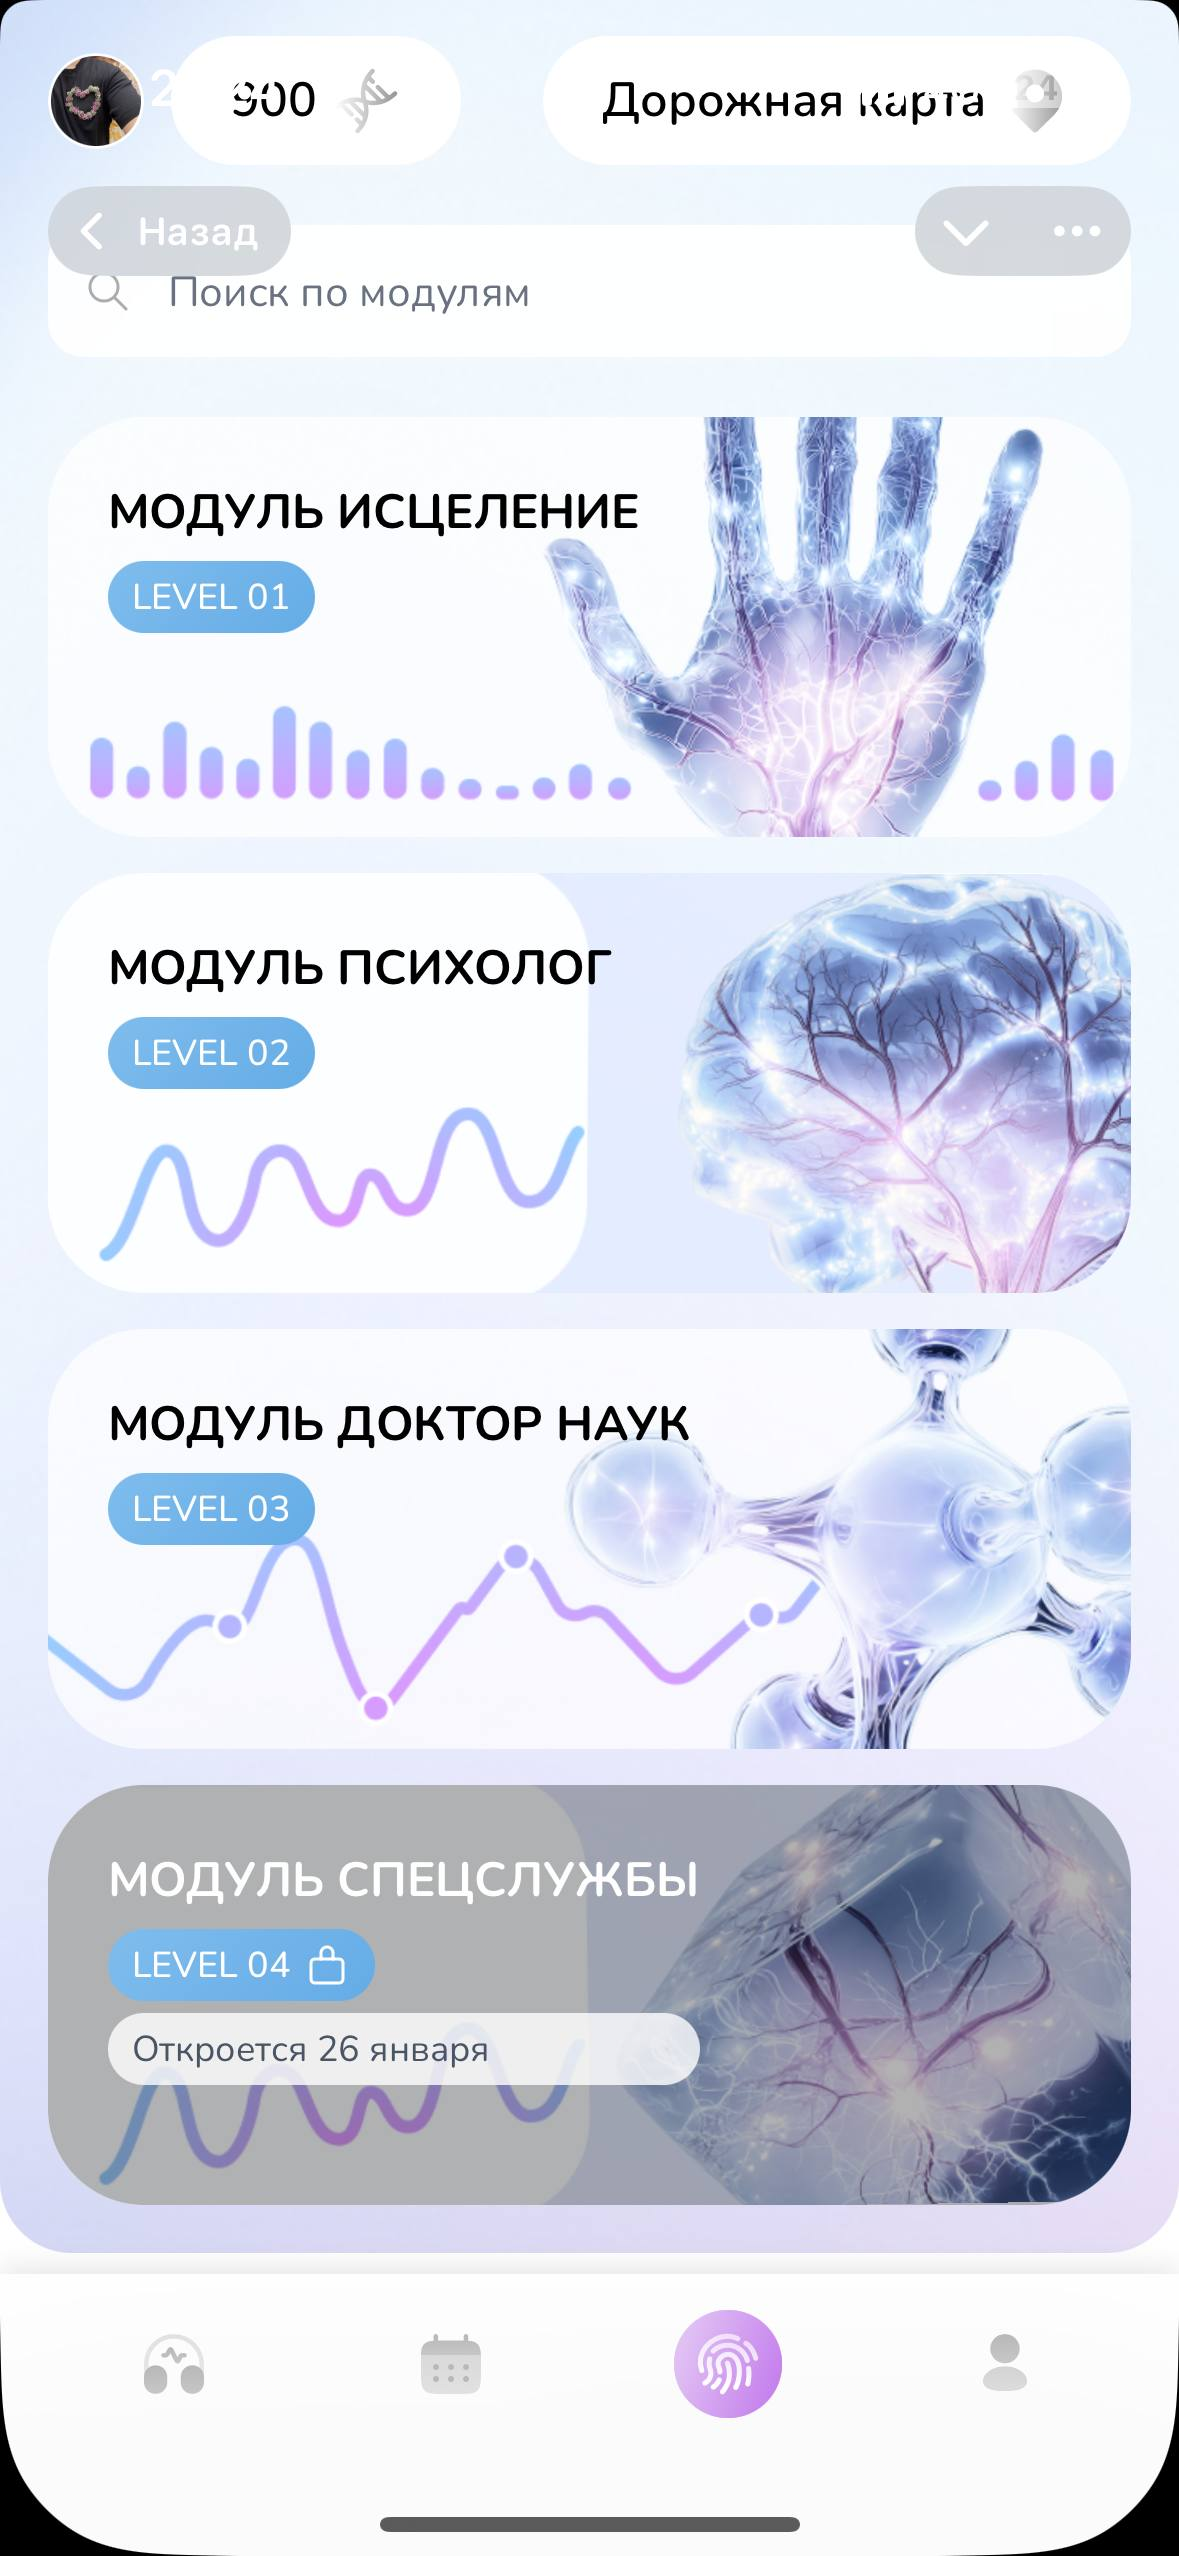
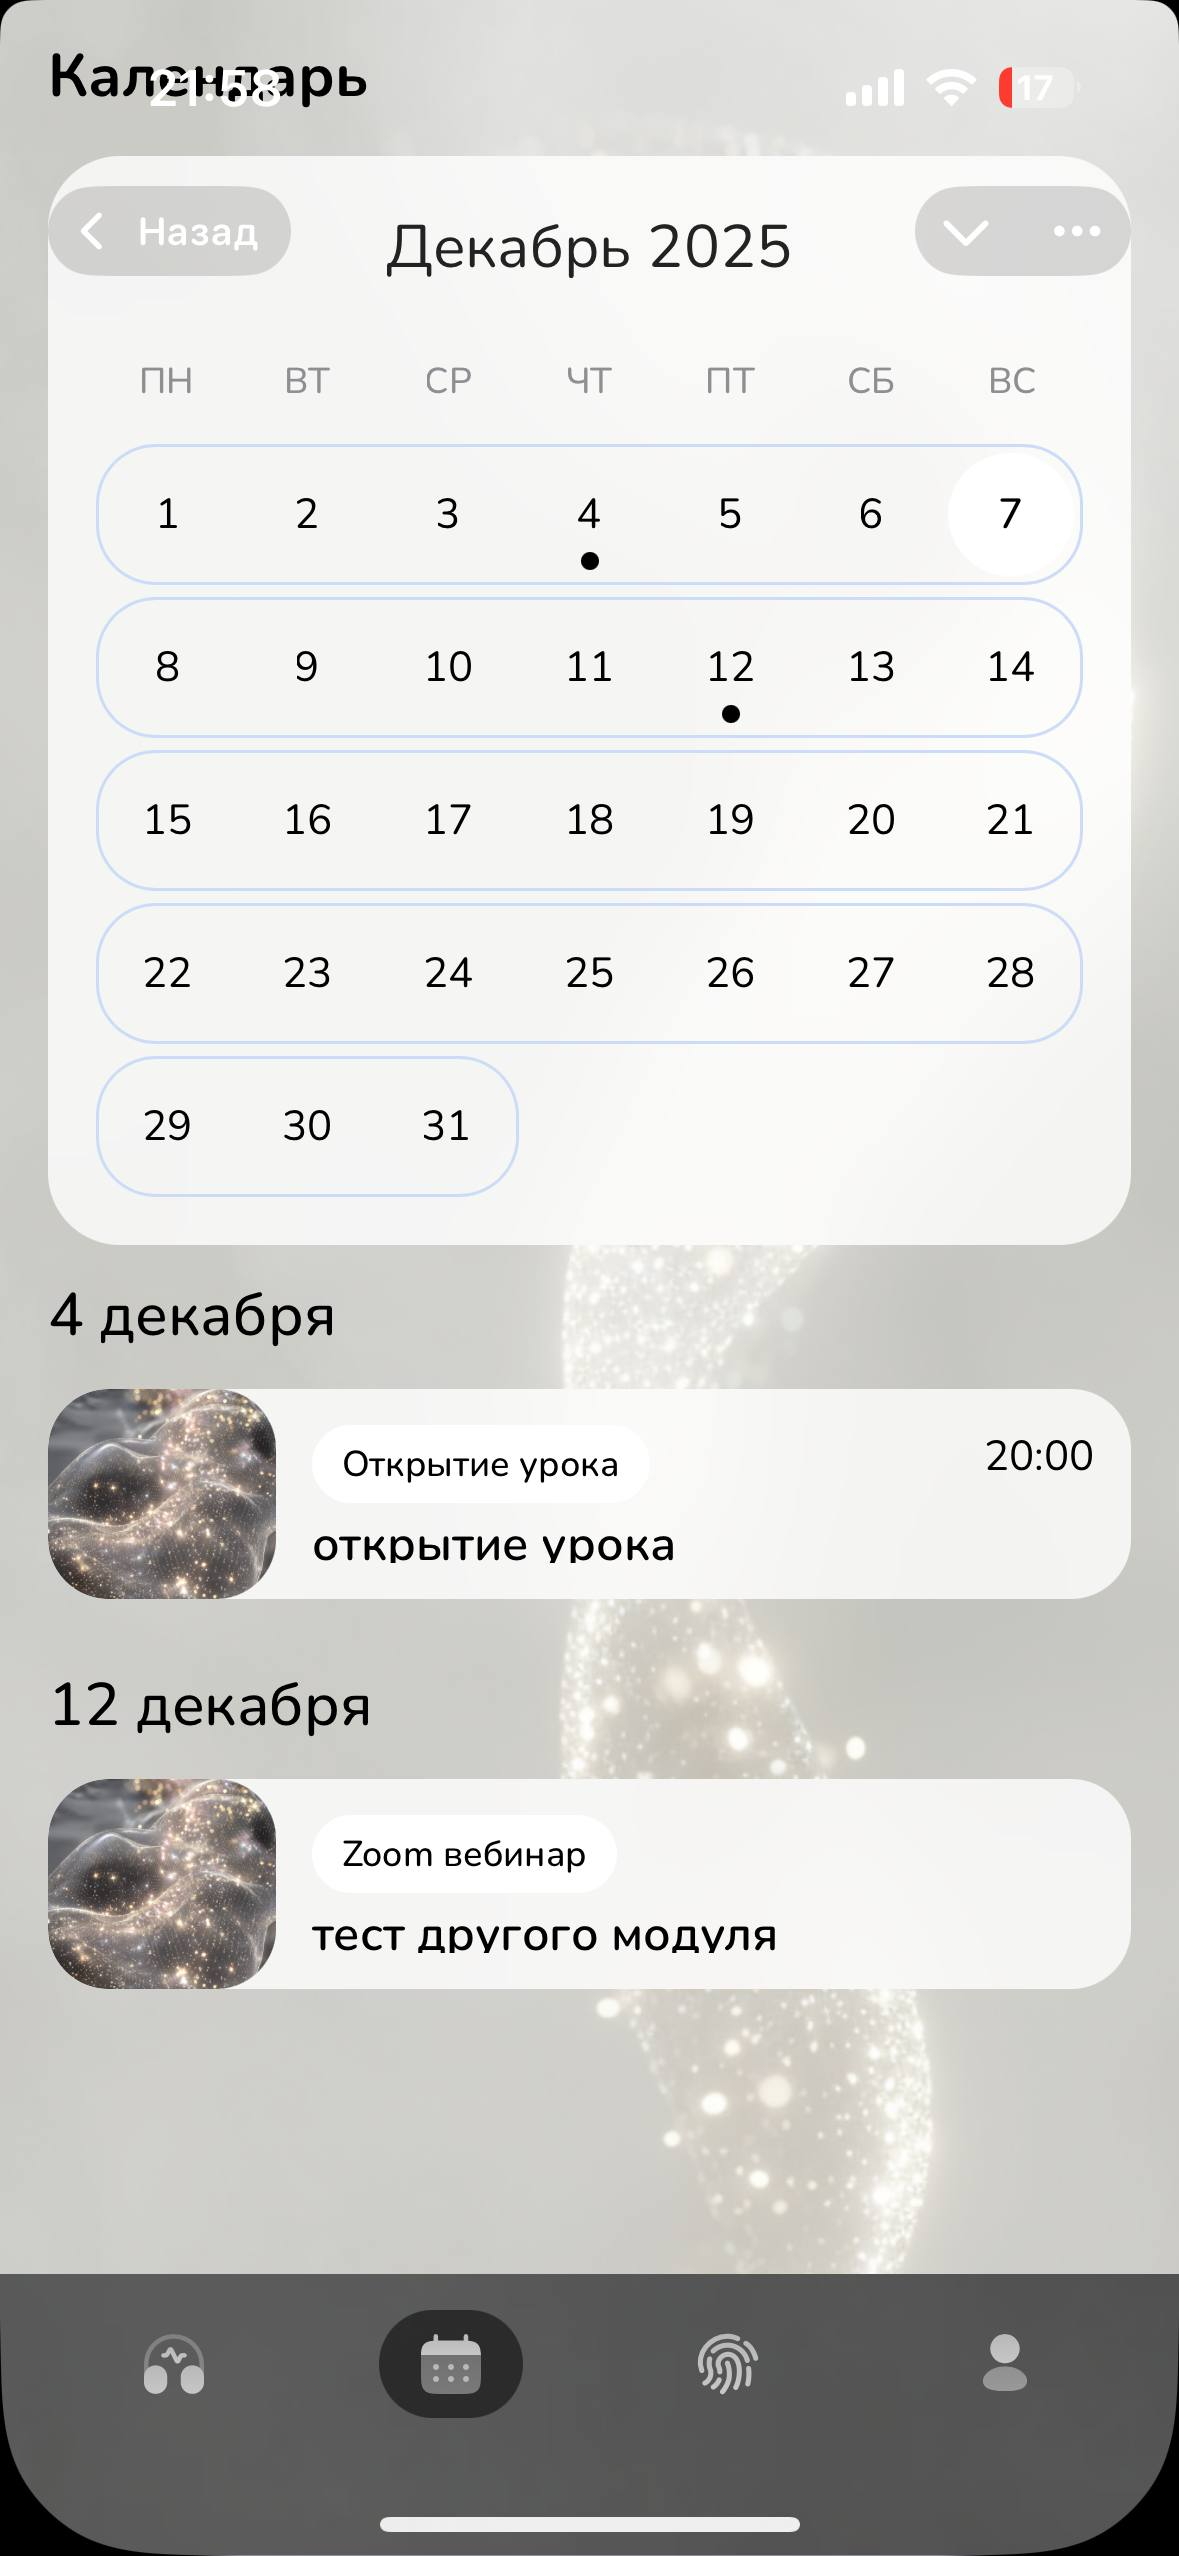
+

diff --git a/src/pages/MaterialPage.tsx b/src/pages/MaterialPage.tsx
@@ -130,7 +130,7 @@ export const MaterialPage = () => {
         <Page>
             {data.material_type === "video" && mainBlock && (
                 <div className={'flex flex-col gap-2 text-black'}>
-                    <div className={'h-[300px]'}>
+                    <div className={'h-[300px] page-bg-container'}>
                         <VideoPlayer
                             videoId={getKinescopeId(mainBlock.content_url) || ''}
                         />
@@ -143,7 +143,7 @@ export const MaterialPage = () => {
             )}
 
             {data.material_type === 'audio' && mainBlock && (
-                <div className={'flex flex-col gap-2 text-black'}>
+                <div className={'flex flex-col gap-2 text-black page-bg-container'}>
                     <img
                         src={buildFileUrl(data.cover_image_path) || ''}
                         alt={data.name || 'Обложка материала'}

diff --git a/src/index.css b/src/index.css
@@ -219,10 +219,11 @@ body {
   padding-right: env(safe-area-inset-right, 0px);
 }
 
-/* Отступ контента сверху: 12px + safe-area */
+/* Отступ контента сверху: 44px + safe-area */
 /* Используй этот класс для страниц с кастомным фоном чтобы контент начинался с правильного отступа */
+/* !important гарантирует что отступ не будет перезаписан стилями страниц */
 .with-content-offset {
-  padding-top: calc(12px + env(safe-area-inset-top, 0px));
+  padding-top: calc(44px + env(safe-area-inset-top, 0px)) !important;
 }
 
 /* Походу не используется */

diff --git a/src/components/Page.css b/src/components/Page.css
@@ -10,9 +10,10 @@ body{
 }
 
 /* Класс для фоновых контейнеров страниц - добавляет правильный отступ сверху */
-/* 12px базовый отступ + safe-area-inset-top для нотча/статус-бара */
+/* 44px базовый отступ + safe-area-inset-top для нотча/статус-бара */
+/* !important гарантирует что отступ не будет перезаписан стилями страниц */
 .page-bg-container {
-  padding-top: calc(12px + env(safe-area-inset-top, 0px));
+  padding-top: calc(44px + env(safe-area-inset-top, 0px)) !important;
 }
 
 html, body, #root {

diff --git a/src/pages/RoadMapPage/RoadMapPage.tsx b/src/pages/RoadMapPage/RoadMapPage.tsx
@@ -74,7 +74,7 @@ const RoadMapPage: React.FC = () => {
 
     return (
         <Page back={true} showTabBar={false}>
-            <div style={{ backgroundColor: '#FFFFFF', minHeight: '100vh' }}>
+            <div className="with-content-offset" style={{ backgroundColor: '#FFFFFF', minHeight: '100vh' }}>
                 <RoadMap
                     stages={modulesAsStages || []}
                     onStageClick={handleStageClick}

diff --git a/src/pages/ProfilePage/ProfileMain.tsx b/src/pages/ProfilePage/ProfileMain.tsx
@@ -81,7 +81,7 @@ export const ProfileMain: FC = () => {
 
   return (
     <Page>
-      <div className="profile-main">
+      <div className="profile-main with-content-offset">
         {/* Верхний блок с аватаром и данными пользователя */}
         <div className="profile-header">
           <div className="profile-avatar-container">

diff --git a/src/pages/EventPage/EventPage.tsx b/src/pages/EventPage/EventPage.tsx
@@ -108,7 +108,7 @@ const EventPage: React.FC = () => {
     <Page back>
       <div className="event-page">
         {/* Обложка события */}
-        <div className="event-page-cover">
+        <div className="event-page-cover page-bg-container">
           <img
             src={event.cover_image || EventCardImage}
             alt={event.title}

diff --git a/src/pages/CalendarPage/CalendarPage.css b/src/pages/CalendarPage/CalendarPage.css
@@ -1,7 +1,10 @@
 .calendar-page {
   display: flex;
   flex-direction: column;
-  padding: 0 16px 16px 16px;
+  padding-left: 16px;
+  padding-right: 16px;
+  padding-bottom: 16px;
+  /* padding-top задаётся через with-content-offset или page-bg-container */
   min-height: 100vh;
 }
 
